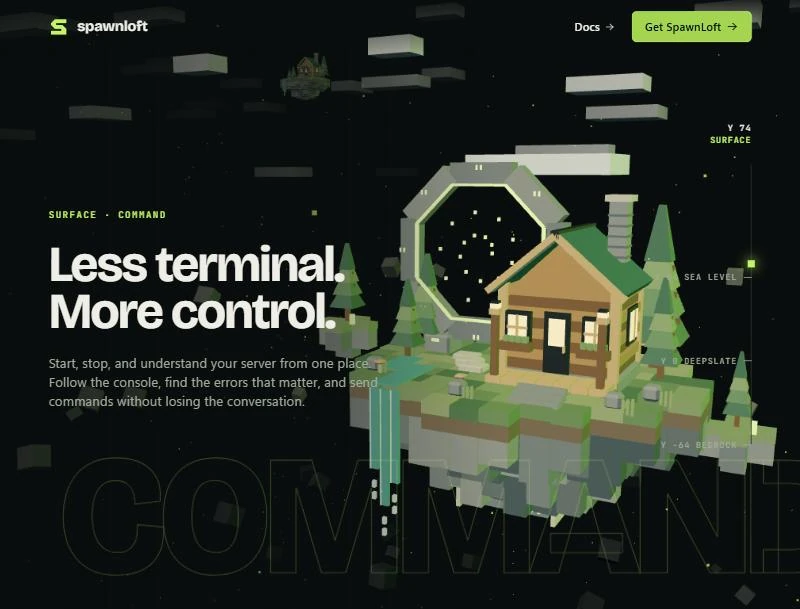
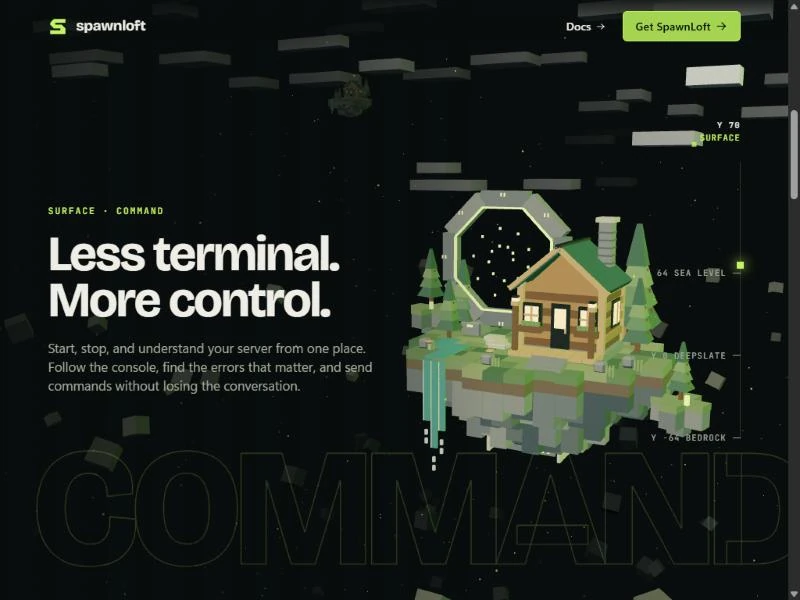
fix(site): keep the Descent island clear of the copy on narrower windows (#21)
The island is framed for wide screens. On windows closer to square, such as a
4:3 laptop window, the same framing fills more of the width and ran into the end
of the Command paragraph.

The camera now backs off and the picture shifts slightly right as the aspect
ratio drops below 1.7. Wide screens and phones keep their authored framing.
Debris is also kept clear of the pulled-back camera paths, so nothing can land
on the lens.

The Command figure in the Descent blog post is retaken from the fixed page.

diff --git a/.vitepress/theme/descent/world.ts b/.vitepress/theme/descent/world.ts
@@ -100,7 +100,9 @@ export async function createWorld(canvas: HTMLCanvasElement, reduced: boolean): 
   const v3 = (a: number[]) => new T.Vector3(a[0], a[1], a[2])
   const camCurve = new T.CatmullRomCurve3([[30, 30, 70], [22, 16, 60], [58, -2, 44], [-30, -30, 44], [24, -62, 48], [2, -92, 30]].map(v3), false, 'catmullrom', 0.5)
   const lookCurve = new T.CatmullRomCurve3([[-13, 6, 0], [-12, 5, 0], [-30, 0, 2], [-12, -36, -10], [-15, -66, -6], [-9, -100, 0]].map(v3), false, 'catmullrom', 0.5)
-  const pathSamples = camCurve.getPoints(160)
+  // On narrower windows the camera is pulled back (see `framing`), so keep debris clear of those paths too.
+  const lookSamples = lookCurve.getPoints(160)
+  const pathSamples = camCurve.getPoints(160).flatMap((p, i) => [1, 1.15, 1.3].map(f => p.clone().sub(lookSamples[i]).multiplyScalar(f).add(lookSamples[i])))
 
   // Debris that whips past the camera on the way down. Nothing is placed on the camera's own path.
   type Chip = { x: number; y: number; z: number; s: number; rx: number; ry: number; c: THREE.Color }
@@ -187,6 +189,10 @@ export async function createWorld(canvas: HTMLCanvasElement, reduced: boolean): 
   scene.add(new T.Points(eGeo, new T.PointsMaterial({ color: 0xc4f566, size: 0.28, transparent: true, opacity: 0.8, depthWrite: false, toneMapped: false })))
 
   let time = 0, cx = 0, cy = 0
+  // Framing for the window's shape. The island is placed for wide screens, where the copy column leaves it room.
+  // As the window gets closer to square, the camera backs off and the picture shifts right, so the island stays
+  // clear of the text. Wide screens and phones are left as authored.
+  let framing = 1
   const lookAt = new T.Vector3(), fwd = new T.Vector3(), right = new T.Vector3(), up = new T.Vector3(), proj = new T.Vector3()
   let lostHandler = () => {}
   const lost = (event: Event) => { event.preventDefault(); lostHandler() }
@@ -207,6 +213,7 @@ export async function createWorld(canvas: HTMLCanvasElement, reduced: boolean): 
       const t = u / (KEYS.length - 1)
       camCurve.getPoint(t, camera.position)
       lookCurve.getPoint(t, lookAt)
+      camera.position.sub(lookAt).multiplyScalar(framing).add(lookAt)
       const k = reduced ? 0 : 1 - Math.exp(-7 * dt)
       cx += (px - cx) * k; cy += (py - cy) * k
       // Moving the camera and re-aiming at the same target is what makes near objects shift more than far ones.
@@ -238,10 +245,15 @@ export async function createWorld(canvas: HTMLCanvasElement, reduced: boolean): 
     },
     resize(width, height) {
       const narrow = width < 760
+      const aspect = width / height
+      framing = narrow ? 1 : clamp(1.7 / aspect, 1, 1.3)
+      const shift = narrow ? 0 : clamp((1.7 - aspect) * 0.15, 0, 0.06)
       renderer.setPixelRatio(Math.min(window.devicePixelRatio || 1, narrow ? 1.25 : 1.5))
       renderer.setSize(width, height, false)
       camera.aspect = width / height
       camera.fov = narrow ? 62 : 42
+      if (shift > 0) camera.setViewOffset(width, height, -shift * width, 0, width, height)
+      else camera.clearViewOffset()
       camera.updateProjectionMatrix()
     },
     onContextLost(handler) { lostHandler = handler },

diff --git a/blog/how-the-descent-page-works.md b/blog/how-the-descent-page-works.md
@@ -12,7 +12,7 @@ aside: false
 # How the Descent page works
 
 <figure class="post-figure">
-  <img src="/img/blog/descent-command.webp" width="800" height="609" alt="The Descent page at its Command chapter: headline and paragraph on the left, a giant outlined word along the bottom, the island on the right and a height gauge at the edge.">
+  <img src="/img/blog/descent-command.webp" width="800" height="600" alt="The Descent page at its Command chapter: headline and paragraph on the left, a giant outlined word along the bottom, the island on the right and a height gauge at the edge.">
   <figcaption>The <a href="/descent">Descent page</a> at its Command chapter. The copy, the outlined word and the island each move at their own rate.</figcaption>
 </figure>
 
